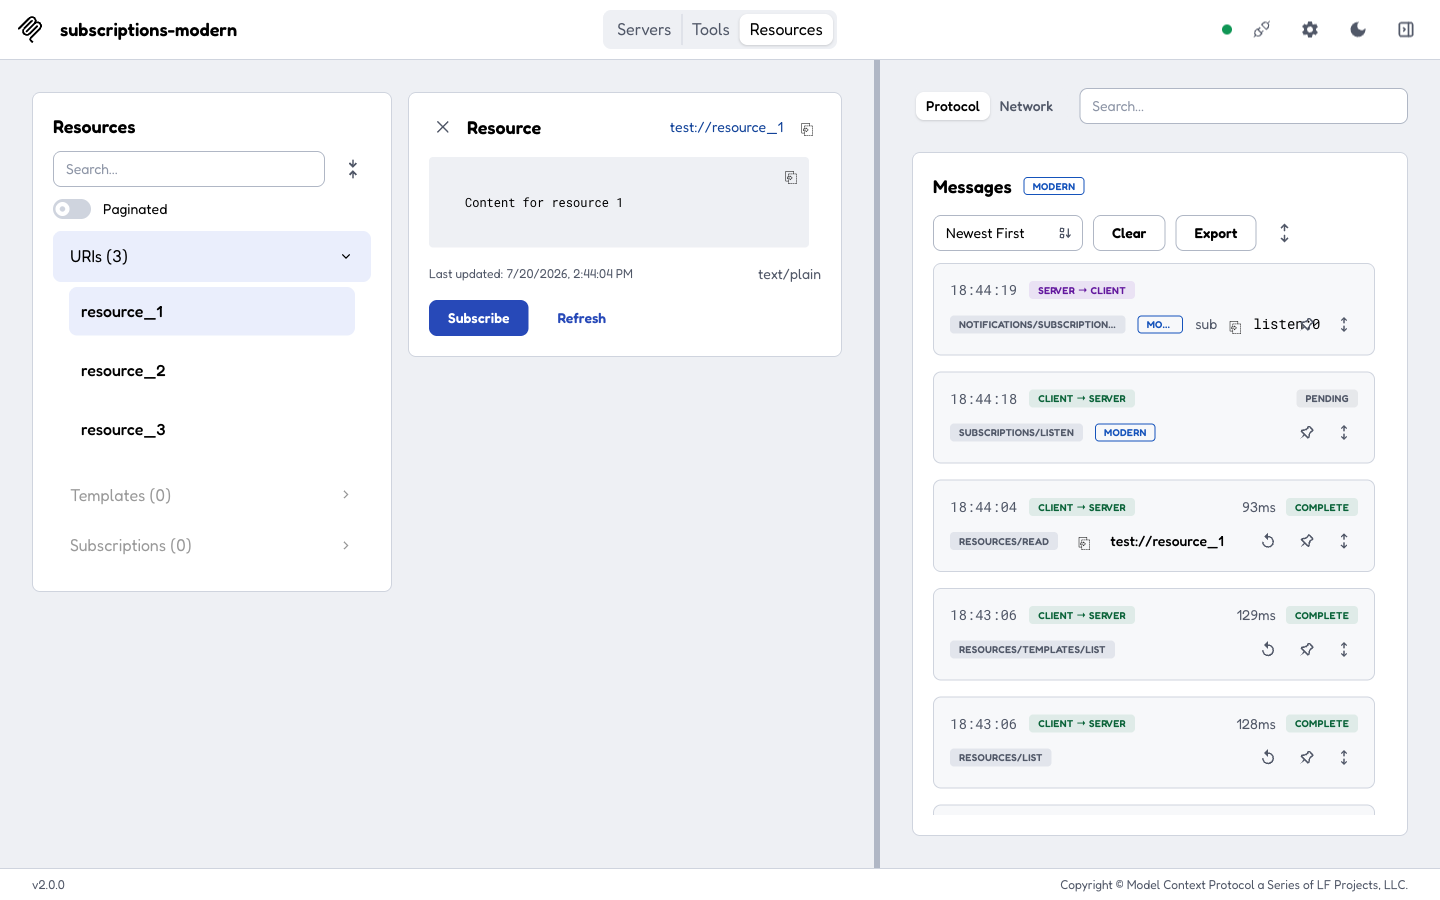
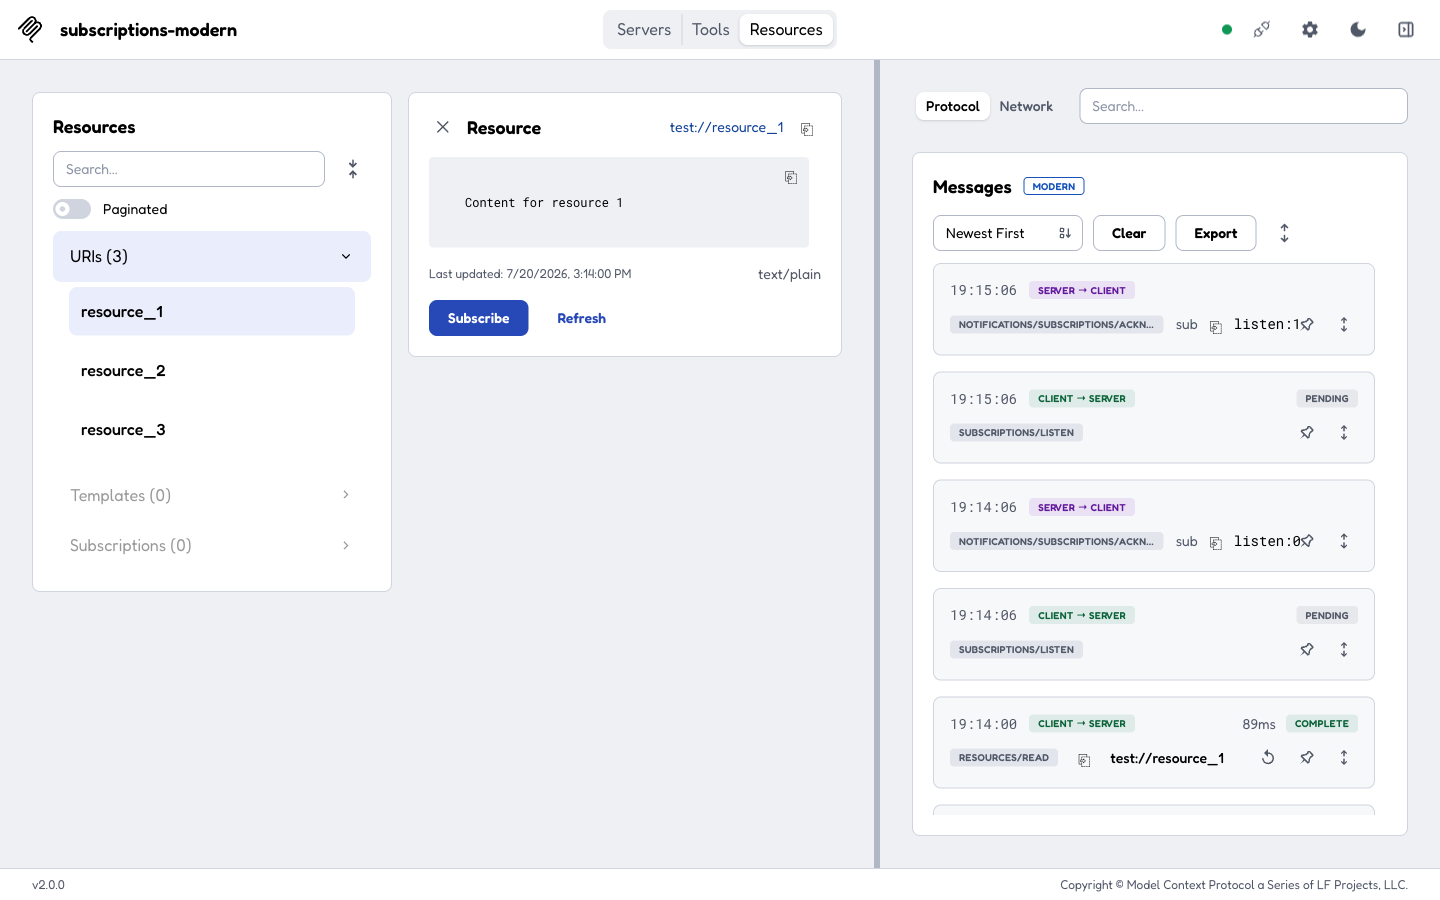
Resources: move modern stream badge into the Subscriptions header; drop per-entry era badge (#1630)
Address review feedback on the modern subscription UI:

- The stream-status badge now lives in the **Subscriptions accordion header**
  (next to the count, visible while collapsed) instead of a separate row above
  the list plus a bare header dot. The labels (`Listening` / `Reconnecting…` /
  `Stream ended`) all fit, so `SubscriptionStreamBadge` drops its `dot` variant
  and always renders the labelled badge.
- Remove the per-frame **"modern" badge** from `ProtocolEntry` (both render
  sites). The connection era is already shown once in the Protocol panel header,
  so the per-entry badge was redundant and cramped the sidebar. Also drops the
  now-unused `isModernFrame` / `MODERN_METHODS` from `protocolUtils` and their
  tests.

Tests/stories updated accordingly; `npm run ci` green. pr-screenshots refreshed:
subscriptions-modern-header-badge.png (the header badge) replaces the old panel
badge shot, and subscriptions-modern-listen-acknowledged.png now shows the
Protocol view with no per-entry era badge.

Claude-Session: https://claude.ai/code/session_01XNdjEPKLG637X8YmhDiEk5

diff --git a/clients/web/src/components/elements/SubscriptionStreamBadge/SubscriptionStreamBadge.tsx b/clients/web/src/components/elements/SubscriptionStreamBadge/SubscriptionStreamBadge.tsx
@@ -1,42 +1,22 @@
-import { Badge, ThemeIcon, Tooltip } from "@mantine/core";
+import { Badge, Tooltip } from "@mantine/core";
 import type { ResourceSubscriptionStreamStatus } from "../../../../../../core/mcp/types.js";
 import { subscriptionStreamPresentation } from "./subscriptionStreamUtils";
 
 export interface SubscriptionStreamBadgeProps {
   /** Lifecycle status of the modern `subscriptions/listen` stream. */
   status: ResourceSubscriptionStreamStatus;
-  /**
-   * `"badge"` (default) renders a labelled dot badge for the panel; `"dot"`
-   * renders a bare colored dot for the accordion header (tooltip only).
-   */
-  variant?: "badge" | "dot";
 }
 
 /**
  * Status indicator for the modern-era resource-subscription listen stream
  * (#1630). Only meaningful on the modern era — the caller gates rendering on
- * `streamState.active`. Renders as a labelled badge in the Subscriptions panel
- * or a bare dot in the accordion header, both explaining the stream in a
- * tooltip.
+ * `streamState.active`. Renders a labelled dot badge (green/yellow/gray) in the
+ * Subscriptions section header, explaining the stream in a tooltip.
  */
 export function SubscriptionStreamBadge({
   status,
-  variant = "badge",
 }: SubscriptionStreamBadgeProps) {
   const { color, label, tooltip } = subscriptionStreamPresentation(status);
-  if (variant === "dot") {
-    return (
-      <Tooltip label={tooltip} multiline w={260} withArrow>
-        <ThemeIcon
-          size={12}
-          radius="xl"
-          color={color}
-          role="img"
-          aria-label={`Listen stream: ${label}`}
-        />
-      </Tooltip>
-    );
-  }
   return (
     <Tooltip label={tooltip} multiline w={260} withArrow>
       <Badge variant="dot" color={color}>

diff --git a/clients/web/src/components/groups/ResourceControls/ResourceControls.tsx b/clients/web/src/components/groups/ResourceControls/ResourceControls.tsx
@@ -124,9 +124,10 @@ export function ResourceControls({
   );
 
   // Modern-era chrome for the single `subscriptions/listen` stream (#1630):
-  // a status dot in the section header and a status badge atop its panel. Only
-  // shown on the modern era while the stream is active (≥1 subscription); the
-  // legacy per-URI `resources/subscribe` model has no persistent stream.
+  // a status badge in the section header (so it stays visible while the section
+  // is collapsed). Only shown on the modern era while the stream is active
+  // (≥1 subscription); the legacy per-URI `resources/subscribe` model has no
+  // persistent stream.
   const streamStatus =
     isModernEra(protocolEra) && subscriptionStreamState?.active === true
       ? subscriptionStreamState.status
@@ -305,20 +306,12 @@ export function ResourceControls({
                   )}
                 </Text>
                 {streamStatus && (
-                  <SubscriptionStreamBadge
-                    status={streamStatus}
-                    variant="dot"
-                  />
+                  <SubscriptionStreamBadge status={streamStatus} />
                 )}
               </Group>
             </Accordion.Control>
             <Accordion.Panel>
               <Stack gap="xs">
-                {streamStatus && (
-                  <Group justify="flex-start">
-                    <SubscriptionStreamBadge status={streamStatus} />
-                  </Group>
-                )}
                 {filteredSubscriptions.map((sub) => (
                   <ResourceSubscribedItem
                     key={sub.resource.uri}

diff --git a/clients/web/src/components/groups/protocolUtils.test.ts b/clients/web/src/components/groups/protocolUtils.test.ts
@@ -7,7 +7,6 @@ import {
   extractResultType,
   extractSubscriptionId,
   groupProtocolEntries,
-  isModernFrame,
 } from "./protocolUtils";
 
 // A tools/call request entry whose paired response is the given result. `at`
@@ -83,22 +82,6 @@ describe("extractMethod", () => {
       },
     };
     expect(extractMethod(entry)).toBe("response");
-  });
-});
-
-describe("isModernFrame", () => {
-  it.each([
-    "server/discover",
-    "subscriptions/listen",
-    "notifications/subscriptions/acknowledged",
-  ])("recognizes the modern frame %s", (method) => {
-    expect(isModernFrame(method)).toBe(true);
-  });
-
-  it("returns false for legacy/ordinary methods", () => {
-    expect(isModernFrame("tools/call")).toBe(false);
-    expect(isModernFrame("notifications/initialized")).toBe(false);
-    expect(isModernFrame("response")).toBe(false);
   });
 });
 

diff --git a/clients/web/src/components/groups/ProtocolEntry/ProtocolEntry.tsx b/clients/web/src/components/groups/ProtocolEntry/ProtocolEntry.tsx
@@ -29,7 +29,6 @@ import {
   extractMethod,
   extractResultType,
   extractSubscriptionId,
-  isModernFrame,
   isReplayableProtocolMethod,
 } from "../protocolUtils.js";
 
@@ -107,15 +106,6 @@ const TargetScroll = Text.withProps({
 const DurationText = Text.withProps({
   size: "sm",
   c: "dimmed",
-});
-
-// Flags a frame whose method only exists in the modern (2026-07-28) era
-// (`server/discover`, `subscriptions/listen`, its acknowledgement). This labels
-// the *frame*, not the connection's negotiated era (see the transcript caveat in
-// protocolUtils) — those methods genuinely cannot occur on a legacy connection.
-const ModernFrameBadge = Badge.withProps({
-  color: "blue",
-  variant: "outline",
 });
 
 // The `subscriptionId` tag on a modern push notification (spec §7.4). Shown with
@@ -280,7 +270,6 @@ export function ProtocolEntry({
   const canReplay = isReplayableProtocolMethod(method);
   const resultType = extractResultType(entry);
   const subscriptionId = extractSubscriptionId(entry);
-  const isModern = isModernFrame(method);
 
   useEffect(() => {
     setIsExpanded(isListExpanded);
@@ -319,9 +308,6 @@ export function ProtocolEntry({
       {statusLabel(status)}
     </Badge>
   );
-  const modernFrameBadge = isModern && (
-    <ModernFrameBadge>modern</ModernFrameBadge>
-  );
   const subscriptionBadge = subscriptionId && (
     <SubscriptionCluster>
       <SubscriptionLabel>sub</SubscriptionLabel>
@@ -355,7 +341,6 @@ export function ProtocolEntry({
             <HeaderRow>
               <HeaderCluster flex={1}>
                 <MethodBadge method={method} />
-                {modernFrameBadge}
                 {subscriptionBadge}
                 {target && (
                   <>
@@ -395,7 +380,6 @@ export function ProtocolEntry({
                 {directionBadge}
                 <MethodBadge method={method} />
                 {specErrorBadge}
-                {modernFrameBadge}
                 {subscriptionBadge}
                 {target && (
                   <>

diff --git a/clients/web/src/components/groups/protocolUtils.ts b/clients/web/src/components/groups/protocolUtils.ts
@@ -50,21 +50,6 @@ export function isReplayableProtocolMethod(method: string): boolean {
 // envelope/resultType" ≠ "modern negotiated" (spec §8.3). Era labeling comes
 // from the negotiated `protocolEra` connection state, threaded in as a prop.
 
-/**
- * Frame methods that only exist in the modern era: the discovery probe, the
- * push-notification listen stream, and its acknowledgement. Generic viewers
- * already display them; this set drives the small "modern frame" affordance.
- */
-export const MODERN_METHODS: ReadonlySet<string> = new Set([
-  "server/discover",
-  "subscriptions/listen",
-  "notifications/subscriptions/acknowledged",
-]);
-
-export function isModernFrame(method: string): boolean {
-  return MODERN_METHODS.has(method);
-}
-
 // The successful `result` object of a request entry's paired response, or
 // undefined when there is no response or it was an error. (messageLogState folds
 // a request's response onto the request entry by JSON-RPC id.)

diff --git a/clients/web/src/components/elements/SubscriptionStreamBadge/SubscriptionStreamBadge.test.tsx b/clients/web/src/components/elements/SubscriptionStreamBadge/SubscriptionStreamBadge.test.tsx
@@ -39,11 +39,8 @@ describe("SubscriptionStreamBadge", () => {
     expect(screen.getByText("Reconnecting…")).toBeInTheDocument();
   });
 
-  it("renders a bare dot with an accessible label in dot mode", () => {
-    renderWithMantine(<SubscriptionStreamBadge status="ended" variant="dot" />);
-    expect(screen.queryByText("Stream ended")).not.toBeInTheDocument();
-    expect(
-      screen.getByLabelText("Listen stream: Stream ended"),
-    ).toBeInTheDocument();
+  it("renders a labelled ended badge", () => {
+    renderWithMantine(<SubscriptionStreamBadge status="ended" />);
+    expect(screen.getByText("Stream ended")).toBeInTheDocument();
   });
 });

diff --git a/clients/web/src/components/groups/ProtocolEntry/ProtocolEntry.test.tsx b/clients/web/src/components/groups/ProtocolEntry/ProtocolEntry.test.tsx
@@ -471,14 +471,10 @@ describe("ProtocolEntry — modern vocabulary", () => {
     expect(screen.queryByText("complete")).not.toBeInTheDocument();
   });
 
-  it("flags a modern-only frame with a 'modern' badge", () => {
+  it("renders a modern-only frame's method (no per-frame era badge)", () => {
     renderWithMantine(<ProtocolEntry {...baseProps} entry={discoverEntry} />);
     expect(screen.getByText("server/discover")).toBeInTheDocument();
-    expect(screen.getByText("modern")).toBeInTheDocument();
-  });
-
-  it("does not flag an ordinary frame as modern", () => {
-    renderWithMantine(<ProtocolEntry {...baseProps} entry={successEntry} />);
+    // The connection era is shown once in the panel header, not per entry.
     expect(screen.queryByText("modern")).not.toBeInTheDocument();
   });
 

diff --git a/clients/web/src/components/groups/ResourceControls/ResourceControls.test.tsx b/clients/web/src/components/groups/ResourceControls/ResourceControls.test.tsx
@@ -341,18 +341,15 @@ describe("ResourceControls", () => {
       honoredUris: ["file:///config.json"],
     };
 
-    it("shows the stream badge and header dot on the modern era", () => {
+    it("shows the stream badge in the section header on the modern era", () => {
       renderWithMantine(
         <ControlledResourceControls
           protocolEra="modern"
           subscriptionStreamState={activeAck}
         />,
       );
-      // Panel badge (labelled) + header dot (aria-label only).
+      // The labelled badge sits in the accordion header (next to the count).
       expect(screen.getByText("Listening")).toBeInTheDocument();
-      expect(
-        screen.getByLabelText("Listen stream: Listening"),
-      ).toBeInTheDocument();
     });
 
     it("renders no stream chrome on the legacy era even when a stream is active", () => {
@@ -360,7 +357,6 @@ describe("ResourceControls", () => {
         <ControlledResourceControls subscriptionStreamState={activeAck} />,
       );
       expect(screen.queryByText("Listening")).not.toBeInTheDocument();
-      expect(screen.queryByLabelText(/Listen stream:/)).not.toBeInTheDocument();
     });
 
     it("renders no stream chrome on the modern era when the stream is inactive", () => {

diff --git a/clients/web/src/components/elements/SubscriptionStreamBadge/SubscriptionStreamBadge.stories.tsx b/clients/web/src/components/elements/SubscriptionStreamBadge/SubscriptionStreamBadge.stories.tsx
@@ -20,7 +20,3 @@ export const Reconnecting: Story = {
 export const Ended: Story = {
   args: { status: "ended" },
 };
-
-export const HeaderDot: Story = {
-  args: { status: "acknowledged", variant: "dot" },
-};

diff --git a/clients/web/src/components/groups/ProtocolEntry/ProtocolEntry.stories.tsx b/clients/web/src/components/groups/ProtocolEntry/ProtocolEntry.stories.tsx
@@ -231,7 +231,8 @@ export const ModernInputRequired: Story = {
   },
 };
 
-// Modern-era: a `server/discover` probe, flagged with the "modern" frame badge.
+// Modern-era: a `server/discover` probe (a modern-only method). The connection
+// era is shown once in the panel header, not per entry.
 export const ModernDiscoverFrame: Story = {
   args: {
     entry: discoverEntry,

diff --git a/pr-screenshots/README.md b/pr-screenshots/README.md
@@ -6,23 +6,24 @@ End-to-end verification of the era fork against two real test servers
 
 ## Modern era (2026-07-28)
 
+![Modern header badge](subscriptions-modern-header-badge.png)
+
+**`subscriptions-modern-header-badge.png`** — on the modern era the Subscriptions
+section shows a single **stream-status badge in its accordion header** (next to the
+count, so it stays visible while the section is collapsed): `● Listening` when the
+`subscriptions/listen` stream is acknowledged, `● Reconnecting…` while it re-lists
+after a drop, `● Stream ended` on graceful close — each explained in a tooltip.
+Legacy connections show no badge.
+
 ![Modern listen + acknowledged](subscriptions-modern-listen-acknowledged.png)
 
-**`subscriptions-modern-listen-acknowledged.png`** — after subscribing to
-`test://resource_1` on a **Modern**-negotiated connection, the Protocol view shows
-the client sent **`subscriptions/listen`** (MODERN, long-lived → `PENDING`) and the
-server answered with **`notifications/subscriptions/acknowledged`**. No
-`resources/subscribe` is sent — the defining era-fork behavior.
-
-![Modern badge + reconnect](subscriptions-modern-badge-and-reconnect.png)
-
-**`subscriptions-modern-badge-and-reconnect.png`** — the Subscriptions section on
-the modern era shows the new stream-status **badge** in its panel and the status
-**dot** in its header (both tooltip-explained), with `resource_1` subscribed. This
-frame caught the **`RECONNECTING…`** state: the Protocol view on the right shows the
-listen stream being re-established (`listen:1`, `listen:2`, `listen:3`, …) — the
-**reconnect-by-re-listen** behavior firing live as the long-lived stream drops and
-is re-listed.
+**`subscriptions-modern-listen-acknowledged.png`** — subscribing on a
+**Modern**-negotiated connection sends **`subscriptions/listen`** (long-lived →
+`PENDING`) and the server answers with **`notifications/subscriptions/acknowledged`**
+(the repeated `listen:0` / `listen:1` pairs are the stream being re-listed). No
+`resources/subscribe` is sent — the defining era-fork behavior. The connection era
+is shown once in the panel header (`Messages · MODERN`); individual entries carry no
+per-frame era badge.
 
 ## Legacy era (contrast)
 